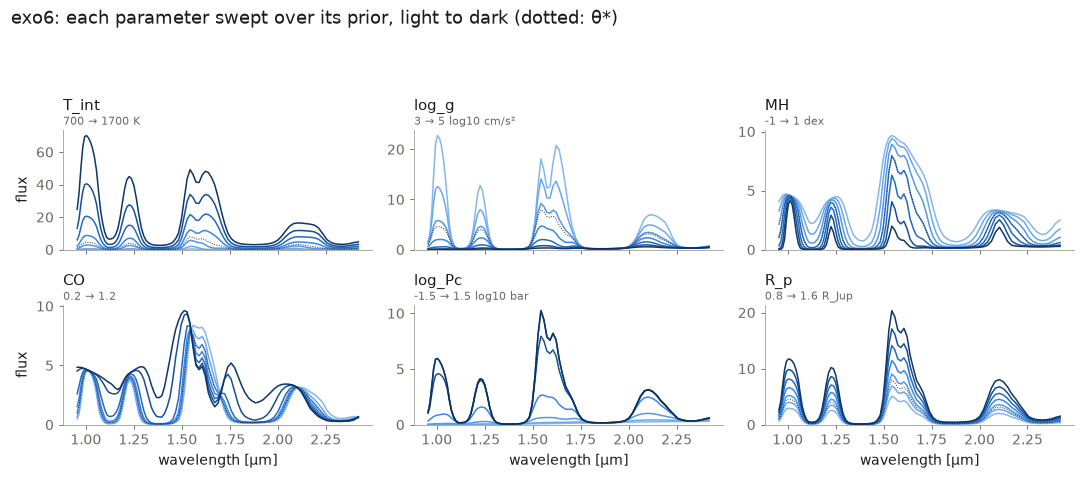
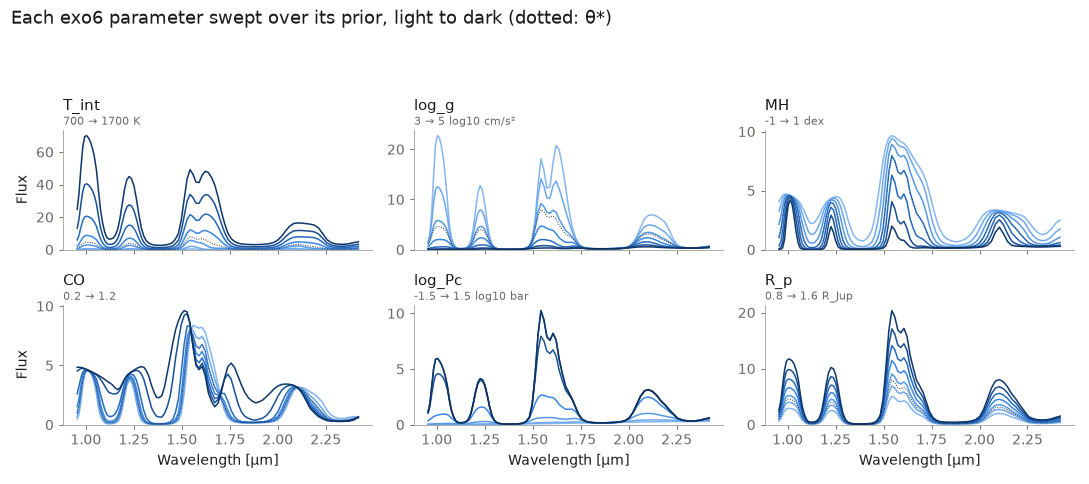
Treat every method alike: no grey reference; capitalised labels
- compare.py: one colour per run, no filled reference; the table compares with a named run (--against)
- README and nested.py: nested sampling is one method among three, not ground truth
- Method names (NPE, TSNPE, Nested sampling), titles and axis labels capitalised

Claude-Session: https://claude.ai/code/session_01L5ndZ2ssohXfSJ8uPoT5r7

diff --git a/compare.py b/compare.py
@@ -4,9 +4,9 @@ r"""Compare the posteriors of several runs: corner plot, posterior predictive ch
     python compare.py --model exo30 --runs nested tsnpe npe    # a selection, in this order
     python compare.py --model exo30 --only-is                  # NPE / TSNPE: reweighted samples only
 
-Nested-sampling runs are filled grey (the first one is the reference of the table). For NPE and TSNPE, the
-samples of q(θ | x_obs) are solid lines and their importance-sampled version dashed; the latter is left out when
-its ESS is below 50, since it then rests on a handful of points.
+Each run has its own colour; no run is treated as the truth. For NPE and TSNPE, the samples of q(θ | x_obs) are
+solid lines and their importance-sampled version dashed; the latter is left out when its ESS is below 50, since it
+then rests on a handful of points. The table compares the marginals with one run (--against, default: nested).
 
 Writes corner.png, ppc.png and table.md in runs/<model>/.
 """
@@ -22,26 +22,27 @@ import numpy as np
 from scipy.ndimage import gaussian_filter
 
 from exomini import Model, runs
-from exomini.plotting import COLORS, FAINT, GREYS, INK, MUTED, STYLE
+from exomini.plotting import COLORS, FAINT, INK, MUTED, STYLE
+
+
+LABELS = {"npe": "NPE", "tsnpe": "TSNPE", "nested": "Nested sampling"}  # run name -> display name
+
 
 def load_sets(folder: str, names: list, only_is: bool, min_ess: float = 50) -> list[dict]:
     """One dict per posterior to draw: label, samples, style, summary."""
-    sets, k = [], 0
-    for name in names:
+    sets = []
+    for k, name in enumerate(names):
         run = runs.load(os.path.join(folder, name))
-        s = run["summary"]
+        s, color = run["summary"], COLORS[k % len(COLORS)]
+        label = LABELS.get(name, name)
+        common = dict(name=name, color=color, summary=s, run=run)
         if run["q"] is None:  # nested sampling
-            n_ref = sum(st["filled"] for st in sets)
-            sets.append(dict(label=name, samples=run["samples"], color=GREYS[n_ref % 2], filled=n_ref == 0,
-                             ls="-", summary=s, run=run))
+            sets.append(dict(label=label, samples=run["samples"], ls="-", q=False, **common))
             continue
-        color, k = COLORS[k % len(COLORS)], k + 1
         if not (only_is and s["ess"] >= min_ess):
-            sets.append(dict(label=f"{name}: q", samples=run["q"], color=color, filled=False, ls="-", summary=s,
-                             run=run))
+            sets.append(dict(label=f"{label}, q", samples=run["q"], ls="-", q=True, **common))
         if s["ess"] >= min_ess:
-            sets.append(dict(label=f"{name}: q + IS", samples=run["samples"], color=color, filled=False, ls="--",
-                             summary=s, run=run))
+            sets.append(dict(label=f"{label}, q + IS", samples=run["samples"], ls="--", q=False, **common))
         else:
             print(f"{name}: importance sampling left out (ESS {s['ess']:.1f})")
     return sets
@@ -61,13 +62,6 @@ def view(model: Model, sets: list, idx: list) -> tuple[np.ndarray, np.ndarray]:
     return np.maximum(lo - pad, model.lower[idx]), np.minimum(up + pad, model.upper[idx])
 
 
-def estimate(x: np.ndarray) -> str:
-    """mean ± std, to the first two significant digits of the std."""
-    m, s = x.mean(), x.std()
-    d = max(0, 1 - int(np.floor(np.log10(s)))) if s > 0 else 2
-    return f"{m:.{d}f} ± {s:.{d}f}"
-
-
 def axis_label(model: Model, i: int, units: bool) -> str:
     return f"{model.names[i]} [{model.units[i]}]" if units and model.units[i] else model.names[i]
 
@@ -78,7 +72,6 @@ def corner(model: Model, sets: list, idx: list, truth, path: str, spectrum=None,
     size = 1.9 if n <= 8 else 1.6 if n <= 12 else 0.9
     fs = 9 if n <= 15 else 7
     lo, up = view(model, sets, idx)
-    ref = next((s for s in sets if s["filled"]), None)
     left, bottom, right, top = 0.09, 0.08, 0.98, 0.97
     fig, axes = plt.subplots(n, n, figsize=(size * n + 0.8, size * n + 0.8), squeeze=False)
     fig.subplots_adjust(hspace=0.08, wspace=0.08, left=left, bottom=bottom, right=right, top=top)
@@ -93,18 +86,12 @@ def corner(model: Model, sets: list, idx: list, truth, path: str, spectrum=None,
                 centres = 0.5 * (edges[1:] + edges[:-1])
                 for s in sets:
                     h = gaussian_filter(np.histogram(s["samples"][:, i], edges, density=True)[0], 1.0)
-                    if s["filled"]:
-                        ax.fill_between(centres, h, color=s["color"], alpha=0.3, lw=0)
-                        ax.plot(centres, h, color=s["color"], lw=1.0)
-                    else:
-                        ax.plot(centres, h, color=s["color"], ls=s["ls"], lw=1.3)
+                    ax.plot(centres, h, color=s["color"], ls=s["ls"], lw=1.3)
                 if truth is not None:
                     ax.axvline(truth[i], color=INK, lw=0.8)
                 ax.set_ylim(bottom=0)
                 ax.set_yticks([])
                 ax.spines["left"].set_visible(False)
-                if ref is not None and n <= 12:
-                    ax.set_title(estimate(ref["samples"][:, i]), fontsize=fs, color=MUTED)
             else:  # 2D marginal, 68% and 95% contours
                 rng = [[lo[b], up[b]], [lo[a], up[a]]]
                 for s in sets:
@@ -112,11 +99,7 @@ def corner(model: Model, sets: list, idx: list, truth, path: str, spectrum=None,
                     h = gaussian_filter(h, 1.3)
                     lv = levels(h)
                     xc, yc = 0.5 * (xe[1:] + xe[:-1]), 0.5 * (ye[1:] + ye[:-1])
-                    if s["filled"]:
-                        ax.contourf(xc, yc, h.T, [lv[0], lv[1], h.max() + 1], colors=[s["color"]], alpha=0.25)
-                        ax.contourf(xc, yc, h.T, [lv[1], h.max() + 1], colors=[s["color"]], alpha=0.5)
-                    else:
-                        ax.contour(xc, yc, h.T, lv, colors=s["color"], linestyles=s["ls"], linewidths=1.1)
+                    ax.contour(xc, yc, h.T, lv, colors=s["color"], linestyles=s["ls"], linewidths=1.1)
                 if truth is not None:
                     ax.axvline(truth[j], color=INK, lw=0.5, alpha=0.5)
                     ax.axhline(truth[i], color=INK, lw=0.5, alpha=0.5)
@@ -136,10 +119,9 @@ def corner(model: Model, sets: list, idx: list, truth, path: str, spectrum=None,
             else:
                 ax.set_yticklabels([])
 
-    handles = [matplotlib.patches.Patch(color=s["color"], alpha=0.5, label=s["label"]) if s["filled"] else
-               matplotlib.lines.Line2D([], [], color=s["color"], ls=s["ls"], lw=1.3, label=s["label"]) for s in sets]
+    handles = [matplotlib.lines.Line2D([], [], color=s["color"], ls=s["ls"], lw=1.3, label=s["label"]) for s in sets]
     if truth is not None:
-        handles.append(matplotlib.lines.Line2D([], [], color=INK, marker="s", ms=3, lw=0.8, label="truth"))
+        handles.append(matplotlib.lines.Line2D([], [], color=INK, marker="s", ms=3, lw=0.8, label="Truth"))
     w, h = (right - left) / n, (top - bottom) / n
     x0 = left + w * (n / 2 + 0.4)
     if spectrum is not None and 4 <= n <= 12:  # the observation, in the empty upper triangle
@@ -147,20 +129,16 @@ def corner(model: Model, sets: list, idx: list, truth, path: str, spectrum=None,
         y0 = top - h * (n // 3) + 0.06
         ins = fig.add_axes([x0, y0, right - x0, top - y0 - 0.02])
         for s, f in zip(sets, preds):
-            if s["filled"]:
-                ins.fill_between(model.wavelength, *np.quantile(f, [0.025, 0.975], axis=0), color=s["color"],
-                                 alpha=0.35, lw=0)
-            else:
-                ins.plot(model.wavelength, np.median(f, 0), color=s["color"], ls=s["ls"], lw=1.0)
+            ins.plot(model.wavelength, np.median(f, 0), color=s["color"], ls=s["ls"], lw=1.0)
         ins.errorbar(model.wavelength, x_obs, model.sigma, fmt="o", ms=2, color=INK, elinewidth=0.5, zorder=5)
-        ins.set_xlabel("wavelength [μm]", fontsize=fs)
-        ins.set_ylabel("flux", fontsize=fs)
+        ins.set_xlabel("Wavelength [μm]", fontsize=fs)
+        ins.set_ylabel("Flux", fontsize=fs)
         ins.tick_params(labelsize=fs - 1.5)
-        ins.set_title(f"{model.name}: the observation and the posteriors' spectra", fontsize=fs + 1, loc="left")
+        ins.set_title(f"Observation and median spectra ({model.name})", fontsize=fs + 1, loc="left")
         fig.legend(handles=handles, loc="upper left", bbox_to_anchor=(x0, y0 - 0.07), fontsize=fs + 1)
     else:
         fig.legend(handles=handles, loc="upper right", bbox_to_anchor=(right, top), fontsize=10)
-        fig.suptitle(f"{model.name}: posteriors (68% and 95% contours)", fontsize=12, x=left, ha="left")
+        fig.suptitle(f"Posteriors on {model.name} (68% and 95% contours)", fontsize=12, x=left, ha="left")
     fig.savefig(path, dpi=80 if n > 15 else 110)
     plt.close(fig)
     print(path)
@@ -178,51 +156,42 @@ def ppc(model: Model, sets: list, preds: list, x_obs: np.ndarray, truth, path: s
         chi_obs = np.sum(((x_obs - f) / sigma) ** 2, axis=1)
         chi2.append(chi_obs)
         p_values.append(np.mean(np.sum(((x_rep - f) / sigma) ** 2, axis=1) >= chi_obs))
-        r = np.median((x_obs - f) / sigma, 0)
-        if s["filled"]:
-            for q, alpha in (([0.025, 0.975], 0.2), ([0.16, 0.84], 0.35)):
-                ax.fill_between(wl, *np.quantile(x_rep, q, axis=0), color=s["color"], alpha=alpha, lw=0)
-            axr.plot(wl, r, "o", ms=3, color=s["color"], zorder=3)
-        else:
-            ax.plot(wl, np.median(f, 0), color=s["color"], ls=s["ls"], lw=1.2)
-            axr.plot(wl, r, color=s["color"], ls=s["ls"], lw=1.0)
+        ax.plot(wl, np.median(f, 0), color=s["color"], ls=s["ls"], lw=1.2)
+        axr.plot(wl, np.median((x_obs - f) / sigma, 0), color=s["color"], ls=s["ls"], lw=1.0)
     ax.errorbar(wl, x_obs, sigma, fmt="o", ms=3, color=INK, elinewidth=0.7, zorder=5)
-    ax.set_title(f"{model.name}: the observation, with what each posterior predicts", loc="left")
-    ax.set_ylabel("flux [10$^{-16}$ W m$^{-2}$ μm$^{-1}$]")
-    handles = [matplotlib.lines.Line2D([], [], color=INK, marker="o", ms=3, ls="", label="x_obs ± σ")]
-    for s in sets:
-        handles.append(matplotlib.patches.Patch(color=s["color"], alpha=0.4, label=f"{s['label']}: 68%, 95% of data")
-                       if s["filled"] else
-                       matplotlib.lines.Line2D([], [], color=s["color"], ls=s["ls"], label=f"{s['label']}: median"))
+    ax.set_title(f"Posterior predictive check ({model.name})", loc="left")
+    ax.set_ylabel("Flux [10$^{-16}$ W m$^{-2}$ μm$^{-1}$]")
+    handles = [matplotlib.lines.Line2D([], [], color=INK, marker="o", ms=3, ls="", label="Observation ± σ")]
+    handles += [matplotlib.lines.Line2D([], [], color=s["color"], ls=s["ls"], label=f"{s['label']}, median")
+                for s in sets]
     ax.legend(handles=handles, fontsize=8, loc="upper right")
 
     axr.axhspan(-2, 2, color=FAINT, lw=0)
     axr.axhspan(-1, 1, color="#dddcd7", lw=0)
     axr.axhline(0, color=MUTED, lw=0.6)
     axr.set_ylim(-3.5, 3.5)
-    axr.set_ylabel("residual / σ")
-    axr.set_xlabel("wavelength [μm]")
-    axr.set_title("median residual (bands: ±1σ, ±2σ)", loc="left", fontsize=9, color=MUTED)
+    axr.set_ylabel("Residual / σ")
+    axr.set_xlabel("Wavelength [μm]")
+    axr.set_title("Median residual (bands: ±1σ, ±2σ)", loc="left", fontsize=9, color=MUTED)
     for a in (ax, axr):
         a.set_xlim(wl[0] - 0.02, wl[-1] + 0.02)
 
     every = np.concatenate(chi2)
     edges = np.linspace(every.min(), np.quantile(every, 0.98), 30)
     for s, c, p in zip(sets, chi2, p_values):
-        axc.hist(c, edges, density=True, color=s["color"], ls=s["ls"],
-                 histtype="stepfilled" if s["filled"] else "step", alpha=0.35 if s["filled"] else 1,
-                 lw=1.2, label=f"{s['label']}: median {np.median(c):.0f}, p = {p:.2f}")
-    marks = [(model.n_bins, "number of bins")]
+        axc.hist(c, edges, density=True, color=s["color"], ls=s["ls"], histtype="step", lw=1.2,
+                 label=f"{s['label']}, median {np.median(c):.0f}, p = {p:.2f}")
+    marks = [(model.n_bins, "Number of bins")]
     if truth is not None:
-        marks.append((np.sum(((x_obs - model.flux(truth)[0]) / sigma) ** 2), "at the truth"))
+        marks.append((np.sum(((x_obs - model.flux(truth)[0]) / sigma) ** 2), "At the truth"))
     for x, text in marks:
         if edges[0] <= x <= edges[-1]:
-            axc.axvline(x, color=INK, lw=0.8, ls=":" if text == "number of bins" else "-")
+            axc.axvline(x, color=INK, lw=0.8, ls=":" if text == "Number of bins" else "-")
             axc.text(x, 1.0, f" {text} ({x:.0f})", transform=axc.get_xaxis_transform(), fontsize=8, va="top")
     axc.set_yticks([])
     axc.spines["left"].set_visible(False)
-    axc.set_xlabel("χ² of x_obs against posterior draws")
-    axc.set_title("fit (p: posterior predictive p-value)", loc="left", fontsize=9, color=MUTED)
+    axc.set_xlabel("χ² of the observation against posterior draws")
+    axc.set_title("Fit (p: posterior predictive p-value)", loc="left", fontsize=9, color=MUTED)
     axc.legend(fontsize=7.5, loc="upper right")
     fig.savefig(path, dpi=110, bbox_inches="tight")
     plt.close(fig)
@@ -230,24 +199,31 @@ def ppc(model: Model, sets: list, preds: list, x_obs: np.ndarray, truth, path: s
     return chi2
 
 
-def table(sets: list, chi2: list, path: str):
-    """Cost, importance-sampling ESS, log Z, fit, and the marginals against the reference (first nested run):
-    mean shift = mean over parameters of |Δ mean| / σ_ref, width ratio = median over parameters of σ / σ_ref."""
-    ref = next((s["samples"] for s in sets if s["filled"]), None)
-    rows = ["| posterior | simulations | ESS | log Z | median χ² | mean shift (σ) | width ratio |",
-            "|---|---|---|---|---|---|---|"]
+def table(sets: list, chi2: list, path: str, against: str | None):
+    """Cost, importance-sampling ESS, log Z, fit, and the marginals compared with those of the run `against`
+    (a comparison between methods, not with the truth): mean shift = mean over parameters of |Δ mean| / σ_against,
+    width = median over parameters of σ / σ_against."""
+    ref = next((s for s in sets if s["name"] == against and not s["q"]), None)
+    name = LABELS.get(against, against)
+    name = name[0].lower() + name[1:] if name[1:2].islower() else name  # "nested sampling", "NPE"
+    rows = ["| Posterior | Simulations | ESS | log Z | Median χ² |"
+            + (f" Mean shift vs {name} (σ) | Width vs {name} |" if ref else ""),
+            "|---|---|---|---|---|" + ("---|---|" if ref else "")]
     for s, c in zip(sets, chi2):
         su = s["summary"]
         ess = f"{su['ess']:,.0f}" if "ess" in su else "–"
         logz = f"{su['logz']:.2f}" + (f" ± {su['logz_err']:.2f}" if "logz_err" in su else "")
-        if s["ls"] == "-" and not s["filled"]:
+        if s["q"]:
             ess = logz = "–"  # q itself: the ESS and log Z belong to its reweighted version
-        dm = ds = "–"
-        if ref is not None and not s["filled"]:
-            sd = ref.std(0)
-            dm = f"{np.mean(np.abs(s['samples'].mean(0) - ref.mean(0)) / sd):.2f}"
-            ds = f"{np.median(s['samples'].std(0) / sd):.2f}"
-        rows.append(f"| {s['label']} | {su['n_sims']:,} | {ess} | {logz} | {np.median(c):.0f} | {dm} | {ds} |")
+        row = f"| {s['label']} | {su['n_sims']:,} | {ess} | {logz} | {np.median(c):.0f} |"
+        if ref:
+            dm = ds = "–"
+            if s is not ref:
+                sd = ref["samples"].std(0)
+                dm = f"{np.mean(np.abs(s['samples'].mean(0) - ref['samples'].mean(0)) / sd):.2f}"
+                ds = f"{np.median(s['samples'].std(0) / sd):.2f}"
+            row += f" {dm} | {ds} |"
+        rows.append(row)
     with open(path, "w") as f:
         f.write("\n".join(rows) + "\n")
     print("\n".join(rows))
@@ -255,7 +231,9 @@ def table(sets: list, chi2: list, path: str):
 
 def main():
     p = runs.parser(__doc__)
-    p.add_argument("--runs", nargs="+", help="run names in runs/<model>/ (default: all, nested sampling first)")
+    p.add_argument("--runs", nargs="+", help="run names in runs/<model>/ (default: all, in alphabetical order)")
+    p.add_argument("--against", default="nested", help="the run the table compares the marginals with "
+                                                       "(default: nested)")
     p.add_argument("--only-is", action="store_true", help="NPE / TSNPE: draw the reweighted samples only")
     p.add_argument("--params", nargs="+", help="parameters of the corner plot (default: all if at most 12, "
                                                "else the 12 the first posterior constrains most)")
@@ -263,8 +241,7 @@ def main():
     args = p.parse_args()
     model = Model(args.model)
     folder = os.path.join(args.out, args.model)
-    names = args.runs or sorted((r for r in os.listdir(folder) if os.path.exists(f"{folder}/{r}/summary.json")),
-                                key=lambda r: (not r.startswith("nested"), r))
+    names = args.runs or sorted(r for r in os.listdir(folder) if os.path.exists(f"{folder}/{r}/summary.json"))
     sets = load_sets(folder, names, args.only_is)
     x_obs, truth = sets[0]["run"]["x"], sets[0]["run"]["theta"]
     for s in sets[1:]:
@@ -285,7 +262,7 @@ def main():
         if model.D > 12 and not args.params:
             corner(model, sets, list(range(model.D)), truth, f"{folder}/corner-all.png")
         chi2 = ppc(model, sets, preds, x_obs, truth, f"{folder}/ppc.png")
-    table(sets, chi2, f"{folder}/table.md")
+    table(sets, chi2, f"{folder}/table.md", args.against)
 
 
 if __name__ == "__main__":

diff --git a/simulate.py b/simulate.py
@@ -39,12 +39,12 @@ def plot_parameters(model: Model, path: str):
             ax.text(0, 1.02, f"{model.lower[i]:g} → {model.upper[i]:g}{unit}", transform=ax.transAxes,
                     va="bottom", fontsize=7.5, color=MUTED)
         for ax in axes[-1]:
-            ax.set_xlabel("wavelength [μm]")
+            ax.set_xlabel("Wavelength [μm]")
         for ax in axes[:, 0]:
-            ax.set_ylabel("flux")
+            ax.set_ylabel("Flux")
         for ax in axes.flat:
             ax.set_ylim(bottom=0)
-        fig.suptitle(f"{model.name}: each parameter swept over its prior, light to dark (dotted: θ*)",
+        fig.suptitle(f"Each {model.name} parameter swept over its prior, light to dark (dotted: θ*)",
                      x=0.01, ha="left", fontsize=12)
         fig.tight_layout(rect=(0, 0, 1, 1 - 0.45 / fig.get_figheight()))
         fig.savefig(path, dpi=90 if model.D > 12 else 110)

diff --git a/nested.py b/nested.py
@@ -1,8 +1,9 @@
-r"""Nested sampling (dynesty) with the exact likelihood: the classical reference, and the evidence log Z.
+r"""Nested sampling (dynesty) with the exact likelihood: posterior samples, and the evidence log Z.
 
 One likelihood evaluation is one simulation, done in CPU workers by random slice sampling ("rslice"); dynesty's
-default for few parameters (ellipsoids) keeps the main process busy and the workers idle instead. Not ground
-truth either: it has its own sampling error, and can miss modes. Checkpoints to dynesty.save, and resumes from it.
+default for few parameters (ellipsoids) keeps the main process busy and the workers idle instead. Like the other
+methods, it is not ground truth: it has its own error, and can miss modes. Checkpoints to dynesty.save, and
+resumes from it.
 
     python nested.py --model exo6
     python nested.py --model exo30 --nlive 2000

diff --git a/exomini/plotting.py b/exomini/plotting.py
@@ -1,8 +1,7 @@
 r"""The look of the figures: colours and a matplotlib style, shared by compare.py and simulate.py."""
 
-# Categorical colours in a fixed order (colour-blind safe for the first three); nested sampling runs are grey.
+# Categorical colours, one per run, in a fixed order (colour-blind safe for the first three).
 COLORS = ["#2a78d6", "#eb6834", "#1baf7a", "#eda100", "#e87ba4", "#008300", "#6250d6", "#e34948"]
-GREYS = ["#8c8a85", "#3f3e3b"]
 BLUES = ["#86b6ef", "#6da7ec", "#5598e7", "#3987e5", "#256abf", "#184f95", "#0d366b"]  # light (low) to dark (high)
 INK, MUTED, FAINT = "#1a1a19", "#6b6a66", "#ebeae6"
 STYLE = {

diff --git a/README.md b/README.md
@@ -6,7 +6,7 @@ exomini does simulation-based inference on toy exoplanet emission spectra. It pr
 and 50 parameters) with exact likelihoods, and three inference methods:
 - **NPE**: amortised neural posterior estimation.
 - **TSNPE**: truncated sequential NPE.
-- **Nested sampling**: the likelihood-based reference.
+- **Nested sampling**: classical sampling with the exact likelihood.
 
 > **Disclaimer.** This codebase was entirely vibe-coded with an AI assistant. The physics is schematic and the
 > code is not validated on real data: do not use it for serious exoplanet science. Its purpose is to show how
@@ -133,10 +133,14 @@ The options shared by all scripts are `--model`, `--obs`, `--seed`, `--out` and 
 ## Comparing runs
 
 `compare.py` writes three files to `runs/<model>/`:
-- **`corner.png`**: marginals. Nested sampling is grey; for NPE and TSNPE, q is solid and q + IS is dashed.
+- **`corner.png`**: marginals, one colour per run. For NPE and TSNPE, q is solid and q + IS is dashed.
 - **`ppc.png`**: spectra of posterior draws, and the χ² of x_obs. A good posterior gives χ² ≈ the number of bins.
-- **`table.md`**: simulations used, ESS, log Z and median χ². It also compares the marginals with nested
-  sampling: the mean shift (in its standard deviations) and the width ratio (1 = same width).
+- **`table.md`**: simulations used, ESS, log Z and median χ². It also compares the marginals with those of one
+  run (`--against`, default nested sampling): the mean shift (in that run's standard deviations) and the width
+  ratio (1 = same width).
+
+No method is ground truth, nested sampling included: each has its own error. Agreement between methods that
+work differently is the evidence.
 
 ## Example: exo6
 
@@ -146,17 +150,17 @@ Each method run on the benchmark observation (test pair 0) with its default sett
 
 ![posterior predictive check](results/exo6/ppc.png)
 
-| posterior | simulations | ESS | log Z | median χ² | mean shift (σ) | width ratio |
+| Posterior | Simulations | ESS | log Z | Median χ² | Mean shift vs nested sampling (σ) | Width vs nested sampling |
 |---|---|---|---|---|---|---|
-| nested | 483,205 | – | -12.11 ± 0.35 | 73 | – | – |
-| npe: q | 100,000 | – | – | 78 | 0.31 | 1.14 |
-| npe: q + IS | 100,000 | 3,523 | -11.85 | 73 | 0.03 | 0.99 |
-| tsnpe: q | 100,000 | – | – | 73 | 0.06 | 0.99 |
-| tsnpe: q + IS | 100,000 | 15,867 | -11.86 | 73 | 0.02 | 1.00 |
+| Nested sampling | 483,205 | – | -12.11 ± 0.35 | 73 | – | – |
+| NPE, q | 100,000 | – | – | 78 | 0.31 | 1.14 |
+| NPE, q + IS | 100,000 | 3,523 | -11.85 | 73 | 0.03 | 0.99 |
+| TSNPE, q | 100,000 | – | – | 73 | 0.06 | 0.99 |
+| TSNPE, q + IS | 100,000 | 15,867 | -11.86 | 73 | 0.02 | 1.00 |
 
-- **All three agree.** The two log Z estimates from importance sampling are within nested sampling's error bar.
-- **NPE's q is slightly too broad** (1.14 times nested sampling's width). Importance sampling corrects it.
-- **TSNPE's q is already accurate.** For the same 100k simulations, its ESS is 4.5 times NPE's.
+- **All three agree.** The two log Z estimates from importance sampling fall within nested sampling's error bar.
+- **NPE's q is broader than the rest** (1.14 times nested sampling's width). Importance sampling brings it in line.
+- **TSNPE's q is already close.** For the same 100k simulations, its ESS is 4.5 times NPE's.
 
 To reproduce (GPU optional):
 

diff --git a/results/exo6/table.md b/results/exo6/table.md
@@ -1,7 +1,7 @@
-| posterior | simulations | ESS | log Z | median χ² | mean shift (σ) | width ratio |
+| Posterior | Simulations | ESS | log Z | Median χ² | Mean shift vs nested sampling (σ) | Width vs nested sampling |
 |---|---|---|---|---|---|---|
-| nested | 483,205 | – | -12.11 ± 0.35 | 73 | – | – |
-| npe: q | 100,000 | – | – | 78 | 0.31 | 1.14 |
-| npe: q + IS | 100,000 | 3,523 | -11.85 | 73 | 0.03 | 0.99 |
-| tsnpe: q | 100,000 | – | – | 73 | 0.06 | 0.99 |
-| tsnpe: q + IS | 100,000 | 15,867 | -11.86 | 73 | 0.02 | 1.00 |
+| Nested sampling | 483,205 | – | -12.11 ± 0.35 | 73 | – | – |
+| NPE, q | 100,000 | – | – | 78 | 0.31 | 1.14 |
+| NPE, q + IS | 100,000 | 3,523 | -11.85 | 73 | 0.03 | 0.99 |
+| TSNPE, q | 100,000 | – | – | 73 | 0.06 | 0.99 |
+| TSNPE, q + IS | 100,000 | 15,867 | -11.86 | 73 | 0.02 | 1.00 |
